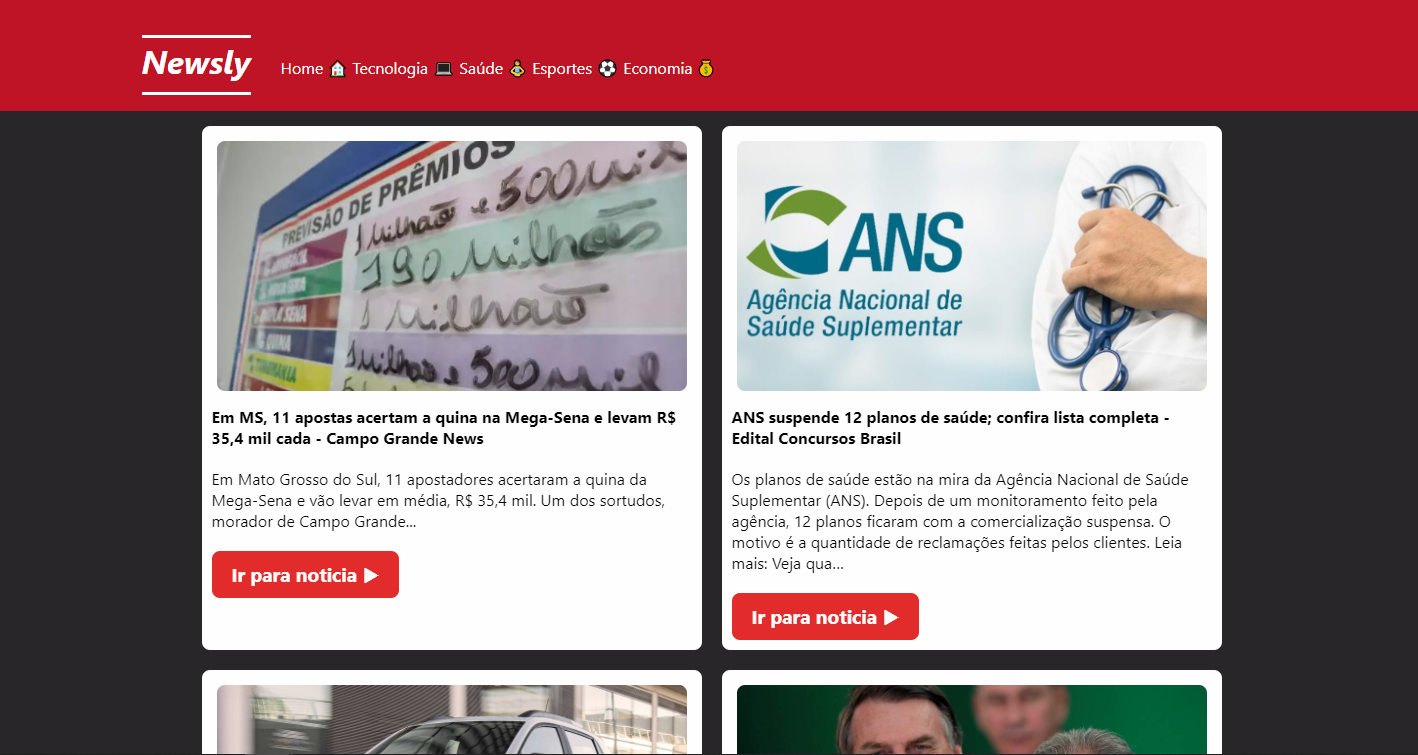
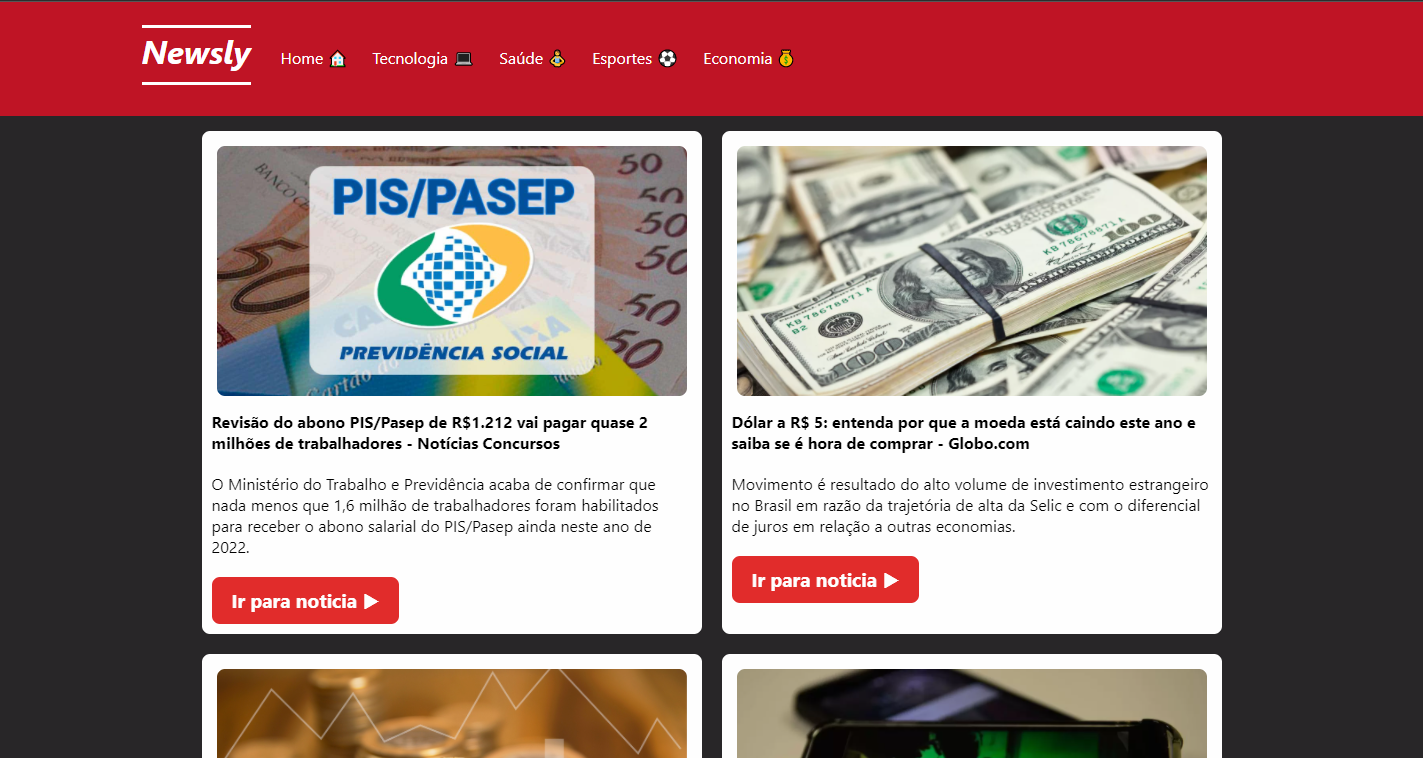
Feat: ajustes no readme sobre instruções

diff --git a/src/components/Header/styles.ts b/src/components/Header/styles.ts
@@ -1,7 +1,7 @@
 import styled from "styled-components";
 
 export const Container = styled.header`
-  background-color: #BF1425;
+  background-color: #bf1425;
   height: 15vh;
   padding: 0px 50px;
 
@@ -15,7 +15,7 @@ export const Wrapper = styled.div`
   margin: 0 auto;
   display: flex;
   align-items: center;
-  padding-top: 5vh;
+  padding-top: 3vh;
   gap: 30px;
   align-items: baseline;
 
@@ -36,16 +36,16 @@ export const Wrapper = styled.div`
 export const Logo = styled.h1`
   color: #fff;
   font-style: italic;
-  border-bottom: solid #FFF 3px;
+  border-bottom: solid #fff 3px;
   padding: 1px 0px 10px 0px;
-  border-top: solid #FFF 3px;
+  border-top: solid #fff 3px;
 `;
 
 export const Menu = styled.nav`
   display: flex;
   align-items: center;
   justify-content: space-between;
-  gap: 5px;
+  gap: 25px;
 
   @media (max-width: 600px) {
     font-size: 1.2rem;

diff --git a/src/pages/Esportes/index.tsx b/src/pages/Esportes/index.tsx
@@ -26,14 +26,13 @@ function Esportes() {
     getNoticias();
   }, []);
 
-  console.log(noticias);
-
+ 
   return (
     <>
       <Header />
       <Wrapper>
       
-        {isLoading ? <LoadingAnimation /> : noticias.map((noticia) => {
+        {isLoading ? <LoadingAnimation /> : noticias?.map((noticia) => {
           return (
             <Card
               key={Math.random()}

diff --git a/src/pages/Home/index.tsx b/src/pages/Home/index.tsx
@@ -23,16 +23,14 @@ function Home() {
     setIsLoading(false);
   };
 
-  // useEffect(() => {
-  //   getNoticias();
-  // }, []);
-
- 
+  useEffect(() => {
+    getNoticias();
+  }, []);
 
   return (
     <>
       <Header />
-      <button onClick={() => getNoticias}> teste </button>
+
       <Wrapper>
         {isLoading ? (
           <LoadingAnimation />

diff --git a/src/pages/Tecnologia/index.tsx b/src/pages/Tecnologia/index.tsx
@@ -26,8 +26,6 @@ function Tecnologia() {
     getNoticias();
   }, []);
 
-  console.log(noticias);
-
   return (
     <>
       <Header />

diff --git a/src/pages/Economia/index.tsx b/src/pages/Economia/index.tsx
@@ -26,7 +26,7 @@ function Economia() {
     getNoticias();
   }, []);
 
-  console.log(noticias);
+ 
 
   return (
     <>

diff --git a/src/pages/Saude/index.tsx b/src/pages/Saude/index.tsx
@@ -26,7 +26,7 @@ function Saude() {
     getNoticias();
   }, []);
 
-  console.log(noticias);
+ 
 
   return (
     <>

diff --git a/README.md b/README.md
@@ -1,7 +1,5 @@
 # Newsly - Portal de notícias
 
-## ☕ Você pode acessar a aplicação <a target="_blank" href="https://newsly-portal-noticias.herokuapp.com/">clicando aqui!</a>!
-
 <img src="src/assets/images/desktop-demo.png" width="550px" alt="imagem de demonstração desktop">
 
 ###  Opa oi oi! Esse é um projeto de consumo de API desenvolvido em React utilizando Typescript e styled-components.
@@ -22,5 +20,30 @@ A aplicação opera nas seguintes dimensões de telas:
 - 720px
 - 600x
 
+## 💻 Pré-requisitos
+- Você deve ter o Node instalado em sua máquina
+- Você deve ter acesso a um termial (Git bash, powershell, cmd, vscode)
 
-<img src="src/assets/images/mobile-demo.png" width="250px" alt="imagem de demonstração desktop">
+## 🚀 Instalando o Newsly na sua máquina
+### Para instalar o Newsly, siga as etapas abaixo:
+
+
+Insira o códgio abaixo no seu terminal para clonar o projeto
+
+```
+git clone https://github.com/gabezrodz/newsly.git
+```
+Então, navegue pelo terminal até a pasta do projeto e instale as dependências com o código abaixo 
+
+```
+npm install
+```
+## ☕ Usando o Newsly
+Após o termino da instalação, use o código abaixo e aplicação irá abrir automaticamente em seu navegador favorito
+
+
+```
+npm start
+```
+
+<img src="src/assets/images/mobile-demo.png" width="250px"  alt="imagem de demonstração desktop">
